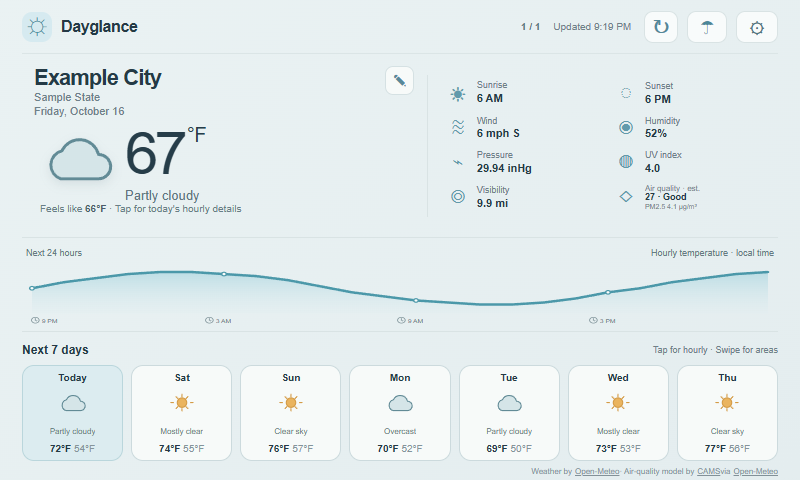
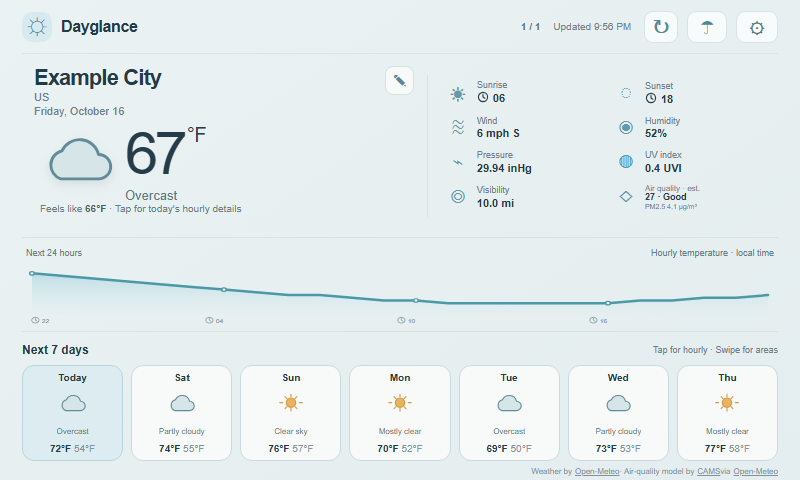
fix: polish hourly time and UV labels

diff --git a/styles.css b/styles.css
@@ -1,5 +1,5 @@
 :root{font-family:'DM Sans',Arial,sans-serif;color:#243a46;background:#e9f0f1;font-synthesis:none;text-rendering:optimizeLegibility;--ink:#263b46;--muted:#6e8189;--line:#d9e3e4;--blue:#c6e5ed;--accent:#4c91a4;--sun:#e3a54c;--card:#f9fbfa}
-*{box-sizing:border-box}html,body{width:100%;height:100%;margin:0;overflow:hidden}body{background:linear-gradient(145deg,#eaf2f3,#e4edef)}button,input{font:inherit}button{color:inherit}.app{width:100%;height:100dvh;max-width:1200px;margin:auto;padding:0 22px;display:flex;flex-direction:column;position:relative;overflow:hidden}.topbar{height:54px;flex:none;display:flex;align-items:center;justify-content:space-between;border-bottom:1px solid #dbe5e6}.brand{display:flex;align-items:center;gap:9px;font:700 16px Manrope,sans-serif;letter-spacing:-.4px}.brand-mark{display:grid;place-items:center;width:30px;height:30px;border-radius:10px;background:#d6eaf0;color:#4c91a4;font-size:21px}.location-controls{display:flex;align-items:center;gap:9px}.updated{font-size:10px;color:var(--muted);margin-right:4px}.control-button{height:32px;padding:0 12px;border:1px solid var(--line);background:#f8fbfb;border-radius:9px;font-size:10px;font-weight:600;cursor:pointer}.refresh-button{width:34px;padding:0;font-size:20px;color:#54899a}.dashboard{min-height:0;flex:1;display:flex;flex-direction:column}.overview{height:184px;flex:none;display:grid;grid-template-columns:1.13fr 1fr;align-items:center;border-bottom:1px solid var(--line);gap:8px}.current-weather{height:100%;display:grid;grid-template-columns:minmax(0,1fr) auto;grid-template-rows:auto 1fr auto;align-items:center;padding:12px 5px 12px 12px}.current-heading{grid-column:1/-1;align-self:start}.current-heading h1{font:700 22px Manrope,sans-serif;letter-spacing:-.7px;margin:0}.current-heading p{font-size:11px;color:var(--muted);margin:1px 0}.current-main{display:flex;align-items:center;gap:7px;min-width:0;margin-top:-1px}.current-icon{font-size:66px;line-height:1;filter:drop-shadow(0 4px 5px #536d7622)}.current-temperature{font:500 60px Manrope,sans-serif;letter-spacing:-4px;white-space:nowrap;color:#263d49;line-height:1}.current-temperature sup{font:500 20px Manrope,sans-serif;letter-spacing:-.5px;vertical-align:top;margin-left:3px}.current-temperature p{font:500 13px 'DM Sans',sans-serif;letter-spacing:0;color:#61767f;margin:4px 0 0}.feels-like{font-size:11px;color:var(--muted);margin:0 0 0 7px}.feels-like strong{font-weight:600;color:#495e68}.conditions-grid{display:grid;grid-template-columns:1fr 1fr;grid-template-rows:repeat(3,1fr);height:142px;gap:5px 13px;padding:4px 9px 4px 18px;border-left:1px solid var(--line)}.condition{display:grid;grid-template-columns:24px auto;grid-template-rows:auto auto;column-gap:7px;align-content:center;min-width:0}.condition-icon{grid-row:1/3;align-self:center;color:#629aab;font-size:19px;text-align:center}.condition-label{font-size:9px;color:var(--muted);line-height:1.2}.condition strong{font-size:11px;font-weight:600;white-space:nowrap;line-height:1.3}.trend-section{min-height:0;flex:1;display:flex;flex-direction:column;padding:6px 4px 5px;border-bottom:1px solid var(--line)}.trend-legend{height:17px;display:flex;align-items:center;justify-content:space-between;font-size:9px;color:#667b83}.trend-legend span+span{display:flex;align-items:center;gap:5px}.trend-legend i{width:8px;height:8px;border-radius:50%;background:#78b9c8}.trend-chart{min-height:0;flex:1}.trend-chart svg{display:block;width:100%;height:100%;overflow:visible}.trend-label{fill:#70858c;font:9px 'DM Sans',sans-serif}.trend-clock-face{fill:none;stroke:#70858c;stroke-width:1}.trend-clock-hands{fill:none;stroke:#70858c;stroke-width:1;stroke-linecap:round;stroke-linejoin:round}.week-section{height:131px;flex:none;padding-top:8px}.week-heading{display:flex;align-items:center;justify-content:space-between;height:19px}.week-heading h2{font:700 12px Manrope,sans-serif;margin:0}.week-heading>span{font-size:9px;color:var(--muted)}.day-list{height:96px;display:grid;grid-template-columns:repeat(7,minmax(0,1fr));gap:8px;margin-top:6px}.day-card{appearance:none;border:1px solid #ccdadd;background:#f7faf9;border-radius:12px;min-width:0;padding:6px 4px;display:flex;flex-direction:column;align-items:center;justify-content:space-between;cursor:pointer;transition:background .15s,border-color .15s,transform .15s}.day-card:hover,.day-card:focus-visible{background:#e1f0f2;border-color:#9ec8d2;transform:translateY(-2px);outline:none}.day-card.today{background:#dcecf0;border-color:#bad6dc}.day-name{font-size:10px;font-weight:600}.day-icon{font-size:24px;line-height:1}.day-condition{font-size:8px;color:#657981;white-space:nowrap;max-width:100%;overflow:hidden;text-overflow:ellipsis}.day-temps{font:600 10px Manrope,sans-serif;white-space:nowrap}.day-temps span{color:#85949a;font-weight:500}.attribution{font-size:8px;color:#829198;margin:0}.dashboard-attribution{height:17px;flex:none;display:flex;align-items:center;justify-content:flex-end}.attribution a{color:inherit;margin-left:3px}.setup,.details{position:absolute;z-index:3;inset:54px 0 0;display:grid;place-items:center;padding:20px}.setup[hidden],.details[hidden],.dashboard[hidden],.loading[hidden]{display:none}.setup-card{width:min(475px,100%);padding:27px 30px 19px;border:1px solid #d7e2e4;border-radius:20px;background:#f8fbfa;box-shadow:0 14px 44px #39535e13;text-align:center}.setup-icon{font-size:38px;margin-bottom:4px}.eyebrow{font-size:9px;font-weight:700;letter-spacing:1.6px;color:#66848e;margin:0 0 7px}.setup-card h1{font:700 24px Manrope,sans-serif;letter-spacing:-.8px;margin:0}.setup-copy{font-size:12px;color:var(--muted);margin:8px 0 18px}.search-form{display:grid;grid-template-columns:1fr auto;gap:8px}.search-form input{height:43px;min-width:0;padding:0 12px;border:1px solid #cfdddf;border-radius:9px;background:white;color:var(--ink);font-size:12px}.search-form input:focus-visible{outline:3px solid #b6d8df}.primary-button{height:43px;border:0;border-radius:9px;background:#4c8798;color:white;padding:0 17px;font-size:11px;font-weight:700;cursor:pointer}.location-button,.back-button{height:38px;margin:11px 3px 0;border:1px solid #d6e2e4;border-radius:9px;background:transparent;padding:0 13px;font-size:11px;font-weight:600;cursor:pointer}.back-button[hidden]{display:none}.error-message{min-height:16px;margin:6px 0 0;color:#a3473e;font-size:10px}.search-results{display:grid;gap:5px;margin-top:3px;max-height:147px;overflow:auto}.result-button{min-height:39px;text-align:left;border:1px solid #dce6e7;border-radius:8px;background:white;padding:5px 11px;font-size:11px;cursor:pointer}.result-button small{display:block;color:var(--muted);font-size:9px;margin-top:2px}.setup-card .attribution{margin-top:10px}.loading{position:absolute;z-index:4;inset:54px 0 0;display:grid;place-content:center;justify-items:center;gap:11px;background:#eaf1f1d9;font-size:11px;color:#59717a}.spinner{width:26px;height:26px;border:3px solid #cbdddf;border-top-color:#4c91a4;border-radius:50%;animation:spin .8s linear infinite}@keyframes spin{to{transform:rotate(360deg)}}.details{background:#e7eff0ed;backdrop-filter:blur(6px);padding:16px 22px}.details-card{width:min(800px,100%);max-height:100%;border:1px solid #cfdddf;border-radius:18px;background:#f9fbfa;box-shadow:0 18px 55px #293e4826;padding:17px 20px 13px;display:flex;flex-direction:column}.details-heading{display:flex;align-items:center;justify-content:space-between;flex:none}.details-heading h1{font:700 22px Manrope,sans-serif;letter-spacing:-.6px;margin:0}.details-heading>div>p:last-child{font-size:10px;color:var(--muted);margin:3px 0 0}.close-details{width:42px;height:42px;border:1px solid #d7e2e4;border-radius:50%;background:#f1f6f6;font-size:27px;line-height:1;cursor:pointer}.hourly-list{display:grid;grid-template-columns:repeat(4,minmax(0,1fr));gap:8px;margin:15px 0 12px}.hour-card{height:88px;border:1px solid #dce6e7;border-radius:11px;background:#f3f8f8;display:grid;grid-template-columns:1fr auto;grid-template-rows:19px 1fr 17px;align-items:center;padding:7px 10px}.hour-time{display:flex;align-items:center;gap:4px;min-width:0;font-size:10px;font-weight:600}.hour-clock{width:12px;height:12px;flex:none;fill:none;stroke:currentColor;stroke-width:1.5;stroke-linecap:round;stroke-linejoin:round}.hour-label{min-width:0}.hour-icon{grid-column:1;grid-row:2;font-size:23px;line-height:1}.hour-temp{grid-column:2;grid-row:2;font:600 19px Manrope,sans-serif}.hour-rain{grid-column:1/-1;grid-row:3;font-size:9px;color:#548b9a}.details-footer{display:flex;justify-content:space-between;align-items:center;gap:8px;font-size:9px;color:var(--muted)}.return-note{white-space:nowrap}.return-note strong{color:#4c8798;font-variant-numeric:tabular-nums}.countdown-track{height:3px;background:#e5edef;border-radius:4px;overflow:hidden;margin-top:8px}.countdown-track span{display:block;height:100%;width:100%;background:#67a9b8;transform-origin:left center;transform:scaleX(1)}.sr-only{position:absolute;width:1px;height:1px;padding:0;margin:-1px;overflow:hidden;clip:rect(0,0,0,0);white-space:nowrap;border:0}
+*{box-sizing:border-box}html,body{width:100%;height:100%;margin:0;overflow:hidden}body{background:linear-gradient(145deg,#eaf2f3,#e4edef)}button,input{font:inherit}button{color:inherit}.app{width:100%;height:100dvh;max-width:1200px;margin:auto;padding:0 22px;display:flex;flex-direction:column;position:relative;overflow:hidden}.topbar{height:54px;flex:none;display:flex;align-items:center;justify-content:space-between;border-bottom:1px solid #dbe5e6}.brand{display:flex;align-items:center;gap:9px;font:700 16px Manrope,sans-serif;letter-spacing:-.4px}.brand-mark{display:grid;place-items:center;width:30px;height:30px;border-radius:10px;background:#d6eaf0;color:#4c91a4;font-size:21px}.location-controls{display:flex;align-items:center;gap:9px}.updated{font-size:10px;color:var(--muted);margin-right:4px}.control-button{height:32px;padding:0 12px;border:1px solid var(--line);background:#f8fbfb;border-radius:9px;font-size:10px;font-weight:600;cursor:pointer}.refresh-button{width:34px;padding:0;font-size:20px;color:#54899a}.dashboard{min-height:0;flex:1;display:flex;flex-direction:column}.overview{height:184px;flex:none;display:grid;grid-template-columns:1.13fr 1fr;align-items:center;border-bottom:1px solid var(--line);gap:8px}.current-weather{height:100%;display:grid;grid-template-columns:minmax(0,1fr) auto;grid-template-rows:auto 1fr auto;align-items:center;padding:12px 5px 12px 12px}.current-heading{grid-column:1/-1;align-self:start}.current-heading h1{font:700 22px Manrope,sans-serif;letter-spacing:-.7px;margin:0}.current-heading p{font-size:11px;color:var(--muted);margin:1px 0}.current-main{display:flex;align-items:center;gap:7px;min-width:0;margin-top:-1px}.current-icon{font-size:66px;line-height:1;filter:drop-shadow(0 4px 5px #536d7622)}.current-temperature{font:500 60px Manrope,sans-serif;letter-spacing:-4px;white-space:nowrap;color:#263d49;line-height:1}.current-temperature sup{font:500 20px Manrope,sans-serif;letter-spacing:-.5px;vertical-align:top;margin-left:3px}.current-temperature p{font:500 13px 'DM Sans',sans-serif;letter-spacing:0;color:#61767f;margin:4px 0 0}.feels-like{font-size:11px;color:var(--muted);margin:0 0 0 7px}.feels-like strong{font-weight:600;color:#495e68}.conditions-grid{display:grid;grid-template-columns:1fr 1fr;grid-template-rows:repeat(3,1fr);height:142px;gap:5px 13px;padding:4px 9px 4px 18px;border-left:1px solid var(--line)}.condition{display:grid;grid-template-columns:24px auto;grid-template-rows:auto auto;column-gap:7px;align-content:center;min-width:0}.condition-icon{grid-row:1/3;align-self:center;color:#629aab;font-size:19px;text-align:center}.condition-label{font-size:9px;color:var(--muted);line-height:1.2}.condition strong{font-size:11px;font-weight:600;white-space:nowrap;line-height:1.3}.condition-clock{width:12px;height:12px;vertical-align:-1px;margin-right:4px;fill:none;stroke:currentColor;stroke-width:1.5;stroke-linecap:round;stroke-linejoin:round}.trend-section{min-height:0;flex:1;display:flex;flex-direction:column;padding:6px 4px 5px;border-bottom:1px solid var(--line)}.trend-legend{height:17px;display:flex;align-items:center;justify-content:space-between;font-size:9px;color:#667b83}.trend-legend span+span{display:flex;align-items:center;gap:5px}.trend-legend i{width:8px;height:8px;border-radius:50%;background:#78b9c8}.trend-chart{min-height:0;flex:1}.trend-chart svg{display:block;width:100%;height:100%;overflow:visible}.trend-label{fill:#70858c;font:9px 'DM Sans',sans-serif}.trend-clock-face{fill:none;stroke:#70858c;stroke-width:1}.trend-clock-hands{fill:none;stroke:#70858c;stroke-width:1;stroke-linecap:round;stroke-linejoin:round}.week-section{height:131px;flex:none;padding-top:8px}.week-heading{display:flex;align-items:center;justify-content:space-between;height:19px}.week-heading h2{font:700 12px Manrope,sans-serif;margin:0}.week-heading>span{font-size:9px;color:var(--muted)}.day-list{height:96px;display:grid;grid-template-columns:repeat(7,minmax(0,1fr));gap:8px;margin-top:6px}.day-card{appearance:none;border:1px solid #ccdadd;background:#f7faf9;border-radius:12px;min-width:0;padding:6px 4px;display:flex;flex-direction:column;align-items:center;justify-content:space-between;cursor:pointer;transition:background .15s,border-color .15s,transform .15s}@media(hover:hover){.day-card:hover{border-color:#9ec8d2}}.day-card:focus-visible{background:#e1f0f2;border-color:#9ec8d2;transform:translateY(-2px);outline:none}.day-card:active{background:#e1f0f2;transform:translateY(0)}.day-card.today{background:#dcecf0;border-color:#bad6dc}.day-name{font-size:10px;font-weight:600}.day-icon{font-size:24px;line-height:1}.day-condition{font-size:8px;color:#657981;white-space:nowrap;max-width:100%;overflow:hidden;text-overflow:ellipsis}.day-temps{font:600 10px Manrope,sans-serif;white-space:nowrap}.day-temps span{color:#85949a;font-weight:500}.attribution{font-size:8px;color:#829198;margin:0}.dashboard-attribution{height:17px;flex:none;display:flex;align-items:center;justify-content:flex-end}.attribution a{color:inherit;margin-left:3px}.setup,.details{position:absolute;z-index:3;inset:54px 0 0;display:grid;place-items:center;padding:20px}.setup[hidden],.details[hidden],.dashboard[hidden],.loading[hidden]{display:none}.setup-card{width:min(475px,100%);padding:27px 30px 19px;border:1px solid #d7e2e4;border-radius:20px;background:#f8fbfa;box-shadow:0 14px 44px #39535e13;text-align:center}.setup-icon{font-size:38px;margin-bottom:4px}.eyebrow{font-size:9px;font-weight:700;letter-spacing:1.6px;color:#66848e;margin:0 0 7px}.setup-card h1{font:700 24px Manrope,sans-serif;letter-spacing:-.8px;margin:0}.setup-copy{font-size:12px;color:var(--muted);margin:8px 0 18px}.search-form{display:grid;grid-template-columns:1fr auto;gap:8px}.search-form input{height:43px;min-width:0;padding:0 12px;border:1px solid #cfdddf;border-radius:9px;background:white;color:var(--ink);font-size:12px}.search-form input:focus-visible{outline:3px solid #b6d8df}.primary-button{height:43px;border:0;border-radius:9px;background:#4c8798;color:white;padding:0 17px;font-size:11px;font-weight:700;cursor:pointer}.location-button,.back-button{height:38px;margin:11px 3px 0;border:1px solid #d6e2e4;border-radius:9px;background:transparent;padding:0 13px;font-size:11px;font-weight:600;cursor:pointer}.back-button[hidden]{display:none}.error-message{min-height:16px;margin:6px 0 0;color:#a3473e;font-size:10px}.search-results{display:grid;gap:5px;margin-top:3px;max-height:147px;overflow:auto}.result-button{min-height:39px;text-align:left;border:1px solid #dce6e7;border-radius:8px;background:white;padding:5px 11px;font-size:11px;cursor:pointer}.result-button small{display:block;color:var(--muted);font-size:9px;margin-top:2px}.setup-card .attribution{margin-top:10px}.loading{position:absolute;z-index:4;inset:54px 0 0;display:grid;place-content:center;justify-items:center;gap:11px;background:#eaf1f1d9;font-size:11px;color:#59717a}.spinner{width:26px;height:26px;border:3px solid #cbdddf;border-top-color:#4c91a4;border-radius:50%;animation:spin .8s linear infinite}@keyframes spin{to{transform:rotate(360deg)}}.details{background:#e7eff0ed;backdrop-filter:blur(6px);padding:16px 22px}.details-card{width:min(800px,100%);max-height:100%;border:1px solid #cfdddf;border-radius:18px;background:#f9fbfa;box-shadow:0 18px 55px #293e4826;padding:17px 20px 13px;display:flex;flex-direction:column}.details-heading{display:flex;align-items:center;justify-content:space-between;flex:none}.details-heading h1{font:700 22px Manrope,sans-serif;letter-spacing:-.6px;margin:0}.details-heading>div>p:last-child{font-size:10px;color:var(--muted);margin:3px 0 0}.close-details{width:42px;height:42px;border:1px solid #d7e2e4;border-radius:50%;background:#f1f6f6;font-size:27px;line-height:1;cursor:pointer}.hourly-list{display:grid;grid-template-columns:repeat(4,minmax(0,1fr));gap:8px;margin:15px 0 12px}.hour-card{height:88px;border:1px solid #dce6e7;border-radius:11px;background:#f3f8f8;display:grid;grid-template-columns:1fr auto;grid-template-rows:19px 1fr 17px;align-items:center;padding:7px 10px}.hour-time{display:flex;align-items:center;gap:4px;min-width:0;font-size:10px;font-weight:600}.hour-clock{width:12px;height:12px;flex:none;fill:none;stroke:currentColor;stroke-width:1.5;stroke-linecap:round;stroke-linejoin:round}.hour-label{min-width:0}.hour-icon{grid-column:1;grid-row:2;font-size:23px;line-height:1}.hour-temp{grid-column:2;grid-row:2;font:600 19px Manrope,sans-serif}.hour-rain{grid-column:1/-1;grid-row:3;font-size:9px;color:#548b9a}.details-footer{display:flex;justify-content:space-between;align-items:center;gap:8px;font-size:9px;color:var(--muted)}.return-note{white-space:nowrap}.return-note strong{color:#4c8798;font-variant-numeric:tabular-nums}.countdown-track{height:3px;background:#e5edef;border-radius:4px;overflow:hidden;margin-top:8px}.countdown-track span{display:block;height:100%;width:100%;background:#67a9b8;transform-origin:left center;transform:scaleX(1)}.sr-only{position:absolute;width:1px;height:1px;padding:0;margin:-1px;overflow:hidden;clip:rect(0,0,0,0);white-space:nowrap;border:0}
 @media(max-width:650px){.app{padding:0 13px}.topbar{height:48px}.updated{display:none}.overview{height:172px;grid-template-columns:1.05fr .95fr}.current-weather{padding-left:0}.current-heading h1{font-size:18px}.current-heading p{font-size:10px}.current-icon{font-size:48px}.current-temperature{font-size:49px}.current-temperature sup{font-size:16px}.current-temperature p{font-size:11px}.conditions-grid{height:137px;padding-left:8px;gap:4px 3px}.condition{grid-template-columns:18px auto;column-gap:4px}.condition-icon{font-size:15px}.condition-label{font-size:8px}.condition strong{font-size:9px}.week-section{height:122px}.day-list{gap:4px;height:88px}.day-card{border-radius:9px;padding:5px 2px}.day-name{font-size:9px}.day-icon{font-size:19px}.day-condition{display:none}.day-temps{font-size:9px}.details{inset:48px 0 0;padding:10px}.details-card{padding:13px}.hourly-list{gap:5px;margin:12px 0 10px}.hour-card{height:76px;padding:5px 7px}.hour-time{font-size:9px}.hour-icon{font-size:20px}.hour-temp{font-size:16px}}
 @media(max-width:390px){.app{padding:0 9px}.overview{height:158px}.current-icon{font-size:42px}.current-temperature{font-size:43px}.conditions-grid{padding-left:5px}.condition{grid-template-columns:15px auto;column-gap:3px}.condition strong{font-size:8px}.week-section{height:111px}.day-list{height:79px}.day-icon{font-size:17px}.hourly-list{grid-template-columns:repeat(2,minmax(0,1fr))}.hour-card{height:64px;grid-template-rows:16px 1fr 13px}.details-heading h1{font-size:18px}}
 @media(max-height:420px){.topbar{height:42px}.overview{height:158px}.week-section{height:115px}.day-list{height:83px}.setup,.details,.loading{inset:42px 0 0}.details-card{padding:10px 15px}.details-heading h1{font-size:18px}.hourly-list{gap:5px;margin:8px 0}.hour-card{height:68px}.details-footer{font-size:8px}}
@@ -23,7 +23,7 @@
 @media(max-height:420px){.add-page{inset:42px 0 0}}
 .current-weather{grid-template-rows:auto 1fr}.current-today-button{min-width:0;min-height:0;grid-column:1/-1;display:grid;grid-template-columns:minmax(0,1fr);grid-template-rows:1fr auto;align-items:center;border:0;border-radius:12px;background:transparent;padding:0 6px 3px;text-align:left;color:inherit;cursor:pointer}.current-today-button:hover,.current-today-button:focus-visible{background:#edf5f5;outline:2px solid #c7dfe3}.current-main{display:flex}.current-temperature .current-summary{display:block;font:500 13px 'DM Sans',sans-serif;letter-spacing:0;color:#61767f;margin:4px 0 0}.current-today-button .feels-like{font-size:10px;color:#687e86;margin:0}.current-today-button .feels-like strong{font-weight:600;color:#495e68}
 .weather-svg{display:block;width:100%;height:100%;overflow:visible;fill:#d5e5e8;stroke:#628b96;stroke-width:2.4;stroke-linecap:round;stroke-linejoin:round}.weather-sun circle,.weather-partly circle{fill:#eab45f;stroke:#d49b46}.weather-sun path,.weather-partly path:first-of-type{fill:none;stroke:#d49b46}.weather-moon path{fill:#eab45f;stroke:#d49b46}.weather-fog path{fill:none}.weather-rain path:not(:first-child),.weather-snow path:not(:first-child),.weather-thunder path:not(:first-child){fill:none}.weather-thunder path:last-child{fill:#eab45f;stroke:#d49b46}.current-icon{width:78px;height:64px;display:grid;place-items:center;filter:drop-shadow(0 4px 5px #536d7622)}.day-icon{width:30px;height:29px}.hour-icon{width:25px;height:25px}.hourly-list{display:flex;gap:8px;width:100%;overflow-x:auto;overflow-y:hidden;overscroll-behavior-x:contain;touch-action:pan-x;scroll-snap-type:x proximity;padding:0 0 7px;scrollbar-width:thin;scrollbar-color:#9dbdc4 #e9f0f1}.hour-card{flex:0 0 76px;scroll-snap-align:start}.details-card{overflow:hidden}.hour-icon{display:flex;align-items:center;justify-content:flex-start}
-.hourly-hint{font-size:11px;color:var(--muted);margin:12px 0 4px}.hourly-navigation{display:flex;align-items:stretch;gap:9px;min-height:0;margin:0 0 12px}.hourly-navigation .hourly-list{flex:1;min-width:0;width:auto;margin:0;padding:12px 0 14px;scroll-snap-type:none;scrollbar-width:auto;user-select:none;cursor:grab}.hourly-navigation .hour-card{flex:0 0 104px;height:140px;padding:12px;grid-template-rows:32px 1fr 24px}.hourly-navigation .hour-time{font-size:13px;align-items:flex-start;line-height:1.15}.hourly-navigation .hour-clock{width:12px;height:12px;margin-top:1px}.hourly-navigation .hour-label{white-space:nowrap}.hourly-navigation .hour-label-part{display:block;white-space:nowrap}.hourly-navigation .hour-temp{font-size:24px}.hourly-navigation .hour-rain{font-size:11px}.hourly-navigation .hour-icon{width:32px;height:32px}.hourly-list.dragging{cursor:grabbing}.hour-scroll-button{flex:0 0 48px;border:1px solid #c4d9de;border-radius:12px;background:#e5f0f2;color:#407f90;font-size:40px;cursor:pointer;touch-action:manipulation}.hour-scroll-button:active{background:#cde4e9}.hour-scroll-button:focus-visible,.hourly-list:focus-visible{outline:3px solid #8dbfcb;outline-offset:1px}.hourly-list::-webkit-scrollbar{height:16px}.hourly-list::-webkit-scrollbar-thumb{background:#8eb7c2;border:3px solid #e9f0f1;border-radius:8px}.hourly-list::-webkit-scrollbar-track{background:#e9f0f1;border-radius:8px}@media(max-height:420px){.hourly-navigation .hour-card{height:108px}.hourly-hint{margin:6px 0 2px}.hourly-navigation{margin-bottom:6px}.hourly-navigation .hourly-list{padding:6px 0}}@media(max-width:390px){.hour-scroll-button{flex-basis:44px}.hourly-navigation{gap:5px}.details-footer{flex-wrap:wrap}.hourly-hint{font-size:10px}}
+.hourly-hint{font-size:11px;color:var(--muted);margin:12px 0 4px}.hourly-navigation{display:flex;align-items:stretch;gap:9px;min-height:0;margin:0 0 12px}.hourly-navigation .hourly-list{flex:1;min-width:0;width:auto;margin:0;padding:12px 0 14px;scroll-snap-type:none;scrollbar-width:auto;user-select:none;cursor:grab}.hourly-navigation .hour-card{flex:0 0 104px;height:140px;padding:12px;grid-template-rows:32px 1fr 24px}.hourly-navigation .hour-card-tomorrow{flex-basis:136px}.hourly-navigation .hour-time{font-size:13px;align-items:flex-start;line-height:1.15}.hourly-navigation .hour-clock{width:12px;height:12px;margin-top:1px}.hourly-navigation .hour-label{white-space:nowrap}.hourly-navigation .hour-label-part{display:inline;white-space:nowrap}.hourly-navigation .hour-temp{font-size:24px}.hourly-navigation .hour-rain{font-size:11px}.hourly-navigation .hour-icon{width:32px;height:32px}.hourly-list.dragging{cursor:grabbing}.hour-scroll-button{flex:0 0 48px;border:1px solid #c4d9de;border-radius:12px;background:#e5f0f2;color:#407f90;font-size:40px;cursor:pointer;touch-action:manipulation}.hour-scroll-button:active{background:#cde4e9}.hour-scroll-button:focus-visible,.hourly-list:focus-visible{outline:3px solid #8dbfcb;outline-offset:1px}.hourly-list::-webkit-scrollbar{height:16px}.hourly-list::-webkit-scrollbar-thumb{background:#8eb7c2;border:3px solid #e9f0f1;border-radius:8px}.hourly-list::-webkit-scrollbar-track{background:#e9f0f1;border-radius:8px}@media(max-height:420px){.hourly-navigation .hour-card{height:108px}.hourly-hint{margin:6px 0 2px}.hourly-navigation{margin-bottom:6px}.hourly-navigation .hourly-list{padding:6px 0}}@media(max-width:390px){.hour-scroll-button{flex-basis:44px}.hourly-navigation{gap:5px}.details-footer{flex-wrap:wrap}.hourly-hint{font-size:10px}}
 .hourly-list{scrollbar-color:auto}.hourly-list::-webkit-scrollbar{height:48px}.hourly-list::-webkit-scrollbar-thumb{border:6px solid #e9f0f1;border-radius:24px}.hourly-list::-webkit-scrollbar-track{border-radius:24px}.search-form{grid-template-columns:1fr 1fr}.search-form input{grid-column:1/-1}.search-form select{min-width:0;height:45px;border:1px solid #cfdddf;border-radius:9px;padding:0 10px;background:white;color:var(--ink);font-size:12px}.search-form select:focus-visible{outline:3px solid #b6d8df}.setup-card .setup-icon{font-size:24px;margin-bottom:0}.setup-card .setup-copy{margin:6px 0 10px}.setup-card .search-results{max-height:130px}
 
 .settings-button{font-size:19px;color:#52747e}.settings-button:hover,.settings-button:focus-visible{background:#dcebed;outline:2px solid #acd0d8}

diff --git a/app.js b/app.js
@@ -80,8 +80,12 @@ function weatherIcon(type){
 }
 function formatDay(iso,options={weekday:'short'}){return new Intl.DateTimeFormat(undefined,options).format(new Date(`${iso}T12:00:00`))}
 function localHour(iso){const hour=preferences.clockFormat==='system'?'numeric':preferences.clockFormat==='24'?'2-digit':'numeric';return new Intl.DateTimeFormat(undefined,{hour,hourCycle:preferences.clockFormat==='24'?'h23':preferences.clockFormat==='12'?'h12':undefined}).format(new Date(iso))}
+function uses24HourClock(){if(preferences.clockFormat==='24')return true;if(preferences.clockFormat==='12')return false;return !new Intl.DateTimeFormat(undefined,{hour:'numeric'}).formatToParts(new Date()).some(part=>part.type==='dayPeriod')}
+function createClockIcon(className){const svg=document.createElementNS('http://www.w3.org/2000/svg','svg');svg.setAttribute('class',className);svg.setAttribute('viewBox','0 0 16 16');svg.setAttribute('aria-hidden','true');const face=document.createElementNS('http://www.w3.org/2000/svg','circle');face.setAttribute('cx','8');face.setAttribute('cy','8');face.setAttribute('r','6.1');const hands=document.createElementNS('http://www.w3.org/2000/svg','path');hands.setAttribute('d','M8 4.5V8l2.5 1.6');svg.append(face,hands);return svg}
+function setTimeCondition(id,iso){const node=document.getElementById(id);if(!node)return;node.replaceChildren();if(iso&&uses24HourClock())node.append(createClockIcon('condition-clock'));node.append(document.createTextNode(iso?localHour(iso):'—'))}
 function compass(degrees){return ['N','NE','E','SE','S','SW','W','NW'][Math.round((Number(degrees)||0)/45)%8]}
 function safeNumber(value,decimals=0){return Number.isFinite(Number(value))?Number(value).toFixed(decimals):'—'}
+function formatUVIndex(value){if(value===null||value===undefined||value==='')return'—';const index=safeNumber(value,1);return index==='—'?index:`${index} UVI`}
 function temperatureSuffix(){return preferences.temperatureUnit==='celsius'?'°C':'°F'}
 function forecastInCurrentUnits(cached){
   if(!cached?.data)return null;
@@ -419,11 +423,11 @@ function render(data,location){
   const currentKind=weatherType(current.weather_code,Boolean(current.is_day));
   setPlaceHeading(location);text('today-date',new Intl.DateTimeFormat(undefined,{weekday:'long',month:'long',day:'numeric'}).format(new Date(`${daily.time[0]}T12:00:00`)));
   $('#current-icon').innerHTML=currentKind.icon;text('current-temperature',safeNumber(current.temperature_2m));$('#current-temperature-unit').textContent=temperatureSuffix();text('current-summary',currentKind.label);text('feels-like',`${safeNumber(current.apparent_temperature)}${temperatureSuffix()}`);
-  text('sunrise',daily.sunrise?.[0]?localHour(daily.sunrise[0]):'—');text('sunset',daily.sunset?.[0]?localHour(daily.sunset[0]):'—');
+  setTimeCondition('sunrise',daily.sunrise?.[0]);setTimeCondition('sunset',daily.sunset?.[0]);
   const metric=preferences.measurementSystem==='metric';
   text('wind-label','Wind');text('humidity-label','Humidity');text('pressure-label','Pressure');text('uv-label','UV index');
   text('wind',`${safeNumber(current.wind_speed_10m)} ${metric?'km/h':'mph'} ${compass(current.wind_direction_10m)}`);text('humidity',`${safeNumber(current.relative_humidity_2m)}%`);
-  text('pressure',Number.isFinite(Number(current.pressure_msl))?metric?`${safeNumber(current.pressure_msl)} hPa`:`${(current.pressure_msl*0.029529983).toFixed(2)} inHg`:'—');text('uv',safeNumber(current.uv_index,1));
+  text('pressure',Number.isFinite(Number(current.pressure_msl))?metric?`${safeNumber(current.pressure_msl)} hPa`:`${(current.pressure_msl*0.029529983).toFixed(2)} inHg`:'—');text('uv',formatUVIndex(current.uv_index));
   text('visibility',Number.isFinite(Number(current.visibility))?metric?`${(current.visibility/1000).toFixed(1)} km`:`${(current.visibility/1609.344).toFixed(1)} mi`:'—');
   const localStation=stationForLocation(location.id),stationStatus=$('#station-observation-status');
   stationStatus.hidden=!localStation;
@@ -436,7 +440,7 @@ function render(data,location){
     if(Number.isFinite(Number(observation.windspeedmph))){const speed=Number(observation.windspeedmph)*(metric?1.609344:1);text('wind',`${safeNumber(speed)} ${metric?'km/h':'mph'} ${compass(observation.winddir)}`);text('wind-label','Wind · station')}
     if(Number.isFinite(Number(observation.humidity))){text('humidity',`${safeNumber(observation.humidity)}%`);text('humidity-label','Humidity · station')}
     if(Number.isFinite(Number(observation.baromin))){const pressure=Number(observation.baromin)*(metric?33.8638867:1);text('pressure',metric?`${safeNumber(pressure)} hPa`:`${pressure.toFixed(2)} inHg`);text('pressure-label','Pressure · station')}
-    if(Number.isFinite(Number(observation.uv))){text('uv',safeNumber(observation.uv,1));text('uv-label','UV · station')}
+    if(Number.isFinite(Number(observation.uv))){text('uv',formatUVIndex(observation.uv));text('uv-label','UV · station')}
   }
   const air=window.DayglanceAirQuality.formatAirQuality(data.airQuality);
   text('air-quality-value',air.value);text('air-quality-pm',air.pm25);
@@ -526,7 +530,7 @@ function showDetails(dayIndex){
   const data=currentForecast,day=data.daily.time[dayIndex],daily=data.daily,hourly=data.hourly,kind=weatherType(daily.weather_code[dayIndex]);
   text('details-date',dayIndex===0?'Today':formatDay(day,{weekday:'long',month:'long',day:'numeric'}));
   text('details-summary',`${kind.label} · High ${Math.round(daily.temperature_2m_max[dayIndex])}${temperatureSuffix()} · Low ${Math.round(daily.temperature_2m_min[dayIndex])}${temperatureSuffix()} · Rain chance ${safeNumber(daily.precipitation_probability_max[dayIndex])}%`);
-  text('details-daylight',`Sunrise ${localHour(daily.sunrise[dayIndex])} · Sunset ${localHour(daily.sunset[dayIndex])} · UV ${safeNumber(daily.uv_index_max[dayIndex],1)}`);
+  text('details-daylight',`Sunrise ${localHour(daily.sunrise[dayIndex])} · Sunset ${localHour(daily.sunset[dayIndex])} · UV ${formatUVIndex(daily.uv_index_max[dayIndex])}`);
   const currentHour=data.current.time.slice(0,13);
   const windowRange=hourlyWindow.getHourlyWindow(hourly.time,day,dayIndex===0,currentHour);
   if(!windowRange)return;
@@ -534,7 +538,8 @@ function showDetails(dayIndex){
   const list=$('#hourly-list');list.replaceChildren();
   hourly.time.slice(start,end).forEach((time,index)=>{
     const i=start+index,weather=weatherType(hourly.weather_code[i],true),card=document.createElement('div');card.className='hour-card';
-    const includesTomorrow=time.slice(0,10)!==day,hourLabel=includesTomorrow?`<span class="hour-label-part">Tomorrow</span><span class="hour-label-part">${localHour(time)}</span>`:dayIndex===0&&time.slice(0,13)===currentHour?'Now':localHour(time);
+    const includesTomorrow=time.slice(0,10)!==day,hourLabel=includesTomorrow?`<span class="hour-label-part">Tomorrow</span> <span class="hour-label-part">${localHour(time)}</span>`:dayIndex===0&&time.slice(0,13)===currentHour?'Now':localHour(time);
+    if(includesTomorrow)card.classList.add('hour-card-tomorrow');
     card.innerHTML=`<span class="hour-time"><svg class="hour-clock" viewBox="0 0 16 16" aria-hidden="true"><circle cx="8" cy="8" r="6.1"/><path d="M8 4.5V8l2.5 1.6"/></svg><span class="hour-label">${hourLabel}</span></span><span class="hour-icon" aria-hidden="true">${weather.icon}</span><span class="hour-temp">${Math.round(hourly.temperature_2m[i])}${temperatureSuffix()}</span><span class="hour-rain">Rain ${safeNumber(hourly.precipitation_probability[i])}%</span>`;list.append(card);
   });
   text('hourly-hint',dayIndex===0?(includesTomorrow?'Starts at the current hour and includes a few early hours tomorrow.':'Starts at the current hour; swipe or drag to see the rest of today.'):'Starts at 8 AM; swipe or drag to explore the full day.');
@@ -571,6 +576,8 @@ function detailScrollActivity(){
 function closeDetails(){
   clearInterval(countdownTimer);clearTimeout(detailTimer);clearTimeout(detailScrollTimer);detailScrollTimer=null;detailPointers.clear();
   const list=$('#hourly-list');list.scrollTo({left:list.scrollLeft,behavior:'instant'});
+  const focusedCard=document.activeElement;
+  if(focusedCard?.classList.contains('day-card')&&!focusedCard.matches(':focus-visible'))focusedCard.blur();
   details.hidden=true;
   scheduleAutoScroll();
 }

diff --git a/tests/test_server_config.py b/tests/test_server_config.py
@@ -178,6 +178,33 @@ class DeviceSettingsConfigTests(unittest.TestCase):
         self.assertIn(".trend-clock-face{", styles)
         self.assertIn(".hourly-navigation .hour-label{", styles)
 
+    def test_sunrise_and_sunset_show_clock_cues_for_24_hour_format(self):
+        app_script = (PROJECT_ROOT / "app.js").read_text(encoding="utf-8")
+        self.assertIn("function uses24HourClock()", app_script)
+        self.assertIn("setTimeCondition('sunrise',daily.sunrise?.[0])", app_script)
+        self.assertIn("setTimeCondition('sunset',daily.sunset?.[0])", app_script)
+        self.assertIn("createClockIcon('condition-clock')", app_script)
+        styles = (PROJECT_ROOT / "styles.css").read_text(encoding="utf-8")
+        self.assertIn(".condition-clock{", styles)
+
+    def test_tomorrow_hour_label_stays_on_one_line_and_hover_does_not_look_selected(self):
+        app_script = (PROJECT_ROOT / "app.js").read_text(encoding="utf-8")
+        self.assertIn("card.classList.add('hour-card-tomorrow')", app_script)
+        self.assertIn('</span> <span class="hour-label-part">${localHour(time)}</span>', app_script)
+        styles = (PROJECT_ROOT / "styles.css").read_text(encoding="utf-8")
+        self.assertIn(".hourly-navigation .hour-label-part{display:inline;white-space:nowrap}", styles)
+        self.assertIn(".hourly-navigation .hour-card-tomorrow{flex-basis:136px}", styles)
+        self.assertIn("@media(hover:hover){.day-card:hover{border-color:#9ec8d2}}", styles)
+        self.assertIn(".day-card:focus-visible{background:#e1f0f2;", styles)
+        self.assertIn("if(focusedCard?.classList.contains('day-card')&&!focusedCard.matches(':focus-visible'))focusedCard.blur()", app_script)
+
+    def test_uv_values_use_uvi_not_lux(self):
+        app_script = (PROJECT_ROOT / "app.js").read_text(encoding="utf-8")
+        self.assertIn("function formatUVIndex(value)", app_script)
+        self.assertIn("`${index} UVI`", app_script)
+        self.assertIn("formatUVIndex(current.uv_index)", app_script)
+        self.assertIn("formatUVIndex(daily.uv_index_max[dayIndex])", app_script)
+
     def test_temperature_graph_period_options_are_ordered_chronologically(self):
         with urlopen(self.base + "index.html", timeout=3) as response:
             page = response.read().decode("utf-8")

diff --git a/docs/project/DESIGN_NOTES.md b/docs/project/DESIGN_NOTES.md
@@ -40,6 +40,8 @@ Today's hourly view begins at the current local hour and omits earlier hours. If
 
 Pair numeric hourly labels on the main temperature graph and in hourly forecast cards with a small clock-face icon. Keep the icon decorative for assistive technology because the adjacent label already provides the time. At 800×480, check the icon and time together fit without clipping, including longer tomorrow labels in the horizontal detail strip.
 
+On the main view, also show a small clock-face beside sunrise and sunset times when the selected or device clock uses 24-hour format; omit it for 12-hour labels that include AM/PM. Keep “Tomorrow” and its hour on one line in Today’s hourly strip, widening those cards when needed. Avoid a persistent hover fill on forecast day buttons because touch browsers can retain `:hover` after the detail overlay closes. Display the UV Index with the abbreviation UVI for context; UVI is dimensionless, not lux ([WHO guide](https://www.who.int/publications/i/item/9241590076)).
+
 ## Raspberry Pi storage writes
 
 Treat microSD writes as a limited resource. Keep frequently refreshed or temporary weather responses in memory while Dayglance is running; persist locations and user-selected preferences only when they change. The service worker may cache the small offline app shell, but should avoid rewriting identical assets and must not cache forecast/API responses. Keep routine successful-request logging disabled unless a measured diagnostic need justifies it. Preserve the offline startup shell and explain any loss of cross-restart weather cache when reducing writes. When changing storage behavior, test the write-avoidance paths and document expected persistence and offline behavior; distinguish source-level analysis from measured device I/O.

diff --git a/docs/screenshots/README.md b/docs/screenshots/README.md
@@ -10,9 +10,9 @@ Screenshots in this gallery use synthetic or unconfigured sample data. They show
 
 ![Hourly detail cards with touch-friendly navigation](hourly-details.png)
 
-![Clock cues beside time labels on the main temperature graph and hourly forecast cards](dayglance-hour-context-cues-20261016.png)
+![Clock cues beside 24-hour sunrise and sunset labels, graph times, and UVI on the main view](dayglance-hour-context-cues-20261016.png)
 
-![Clock cues beside time labels in the hourly detail strip](dayglance-hourly-time-context-20261016.png)
+![Tomorrow and its hour on one line in the hourly detail strip](dayglance-hourly-time-context-20261016.png)
 
 This 800×480 preview uses synthetic forecast data and an example location.
 
